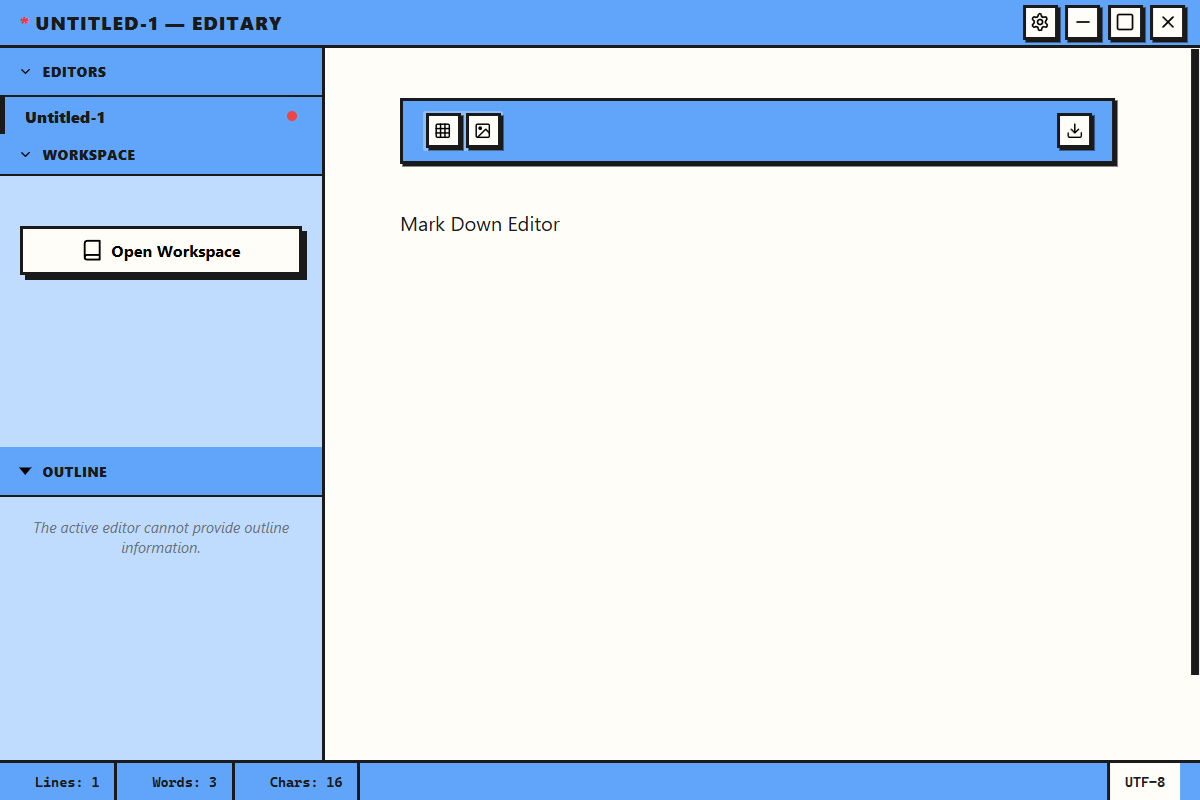
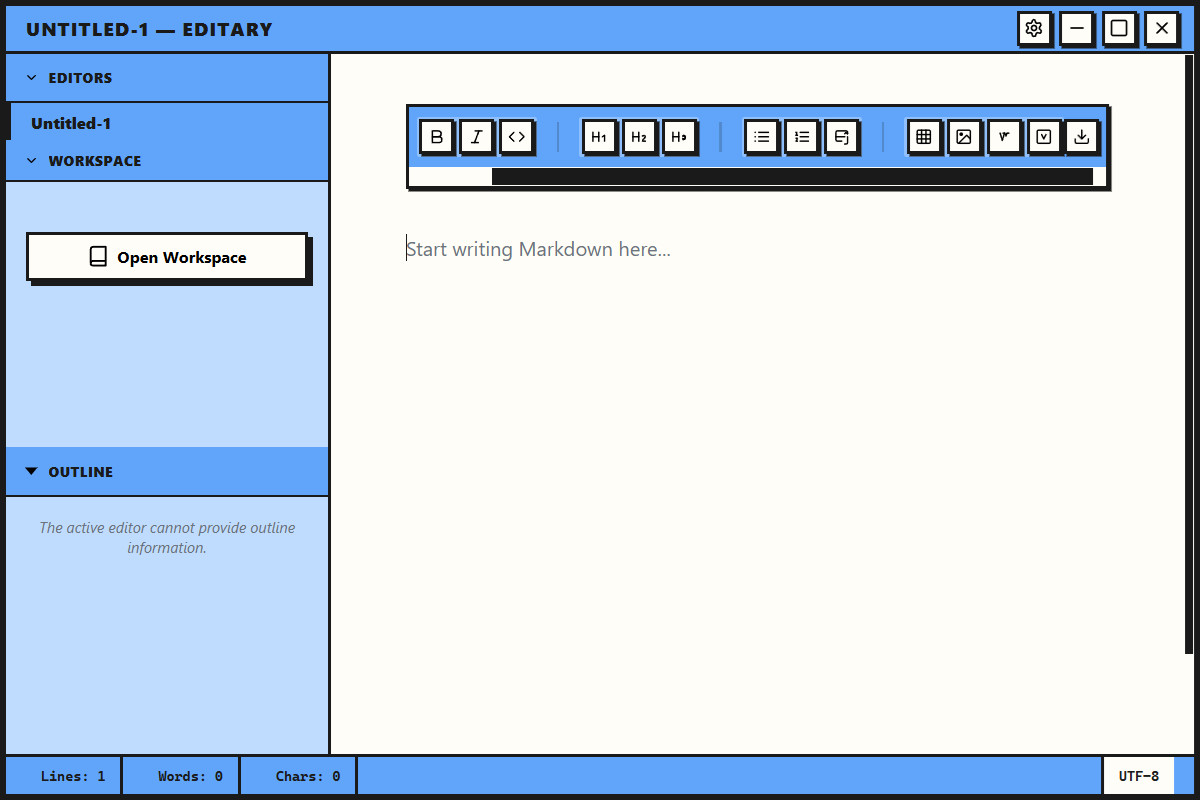
docs: update features in README and fix WiX build encoding

Changed region(s): [[0.0, 0.0, 1.0, 1.0], [0.3083, 0.125, 0.9558, 0.3438]]

diff --git a/README.ja.md b/README.ja.md
@@ -10,6 +10,10 @@
 
 - **Typora ライクな執筆体験**: Tiptap をベースとしたリアルタイムプレビューにより、Markdown を直接シームレスに編集可能。
 - **ネオ・ブルータリズム UI**: 太い境界線と鮮やかな色彩を用いた、大胆でハイコントラストなデザイン。
+  - **アプリの外枠**: アプリケーション全体を強調する太い黒枠（ネオ・ブルータリズム・フレーム）。
+  - **洗練された設定画面**: 操作性を向上させた垂直レイアウトの採用。
+  - **タブ管理**: 複数のドキュメントを効率的に切り替えられるタブインターフェース。
+  - **ダーク/ライトモード**: システム設定に連動した柔軟なテーマ切り替え。
 - **高度な Markdown サポート**:
   - 📊 **Mermaid**: ノート内に図解やチャートを直接作成。
   - 🧪 **KaTeX**: 公式や数式の高品質なタイポグラフィをサポート。

diff --git a/README.md b/README.md
@@ -10,6 +10,10 @@
 
 - **Typora-like Writing Experience**: Seamlessly edit Markdown with a real-time preview powered by Tiptap.
 - **Neo-brutalism UI**: A bold, high-contrast design with thick borders and vibrant colors.
+  - **App Window Frame**: High-impact black borders around the entire application.
+  - **Refined Settings**: Optimized vertical layouts for better usability.
+  - **Customizable Themes**: Switch between light and dark modes with unique neo-brutalist palettes.
+  - **Sidebar Navigation**: Intuitive file management with a clean, border-heavy aesthetic.
 - **Advanced Markdown Support**:
   - 📊 **Mermaid**: Create diagrams and charts directly in your notes.
   - 🧪 **KaTeX**: High-quality math typesetting for formulas.
